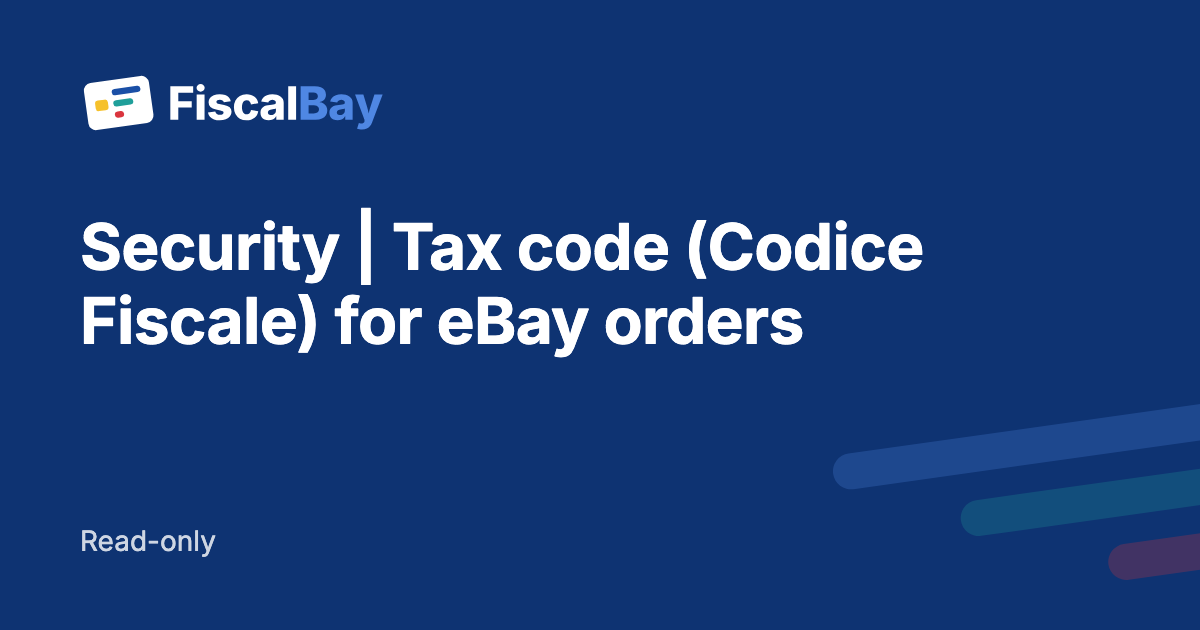
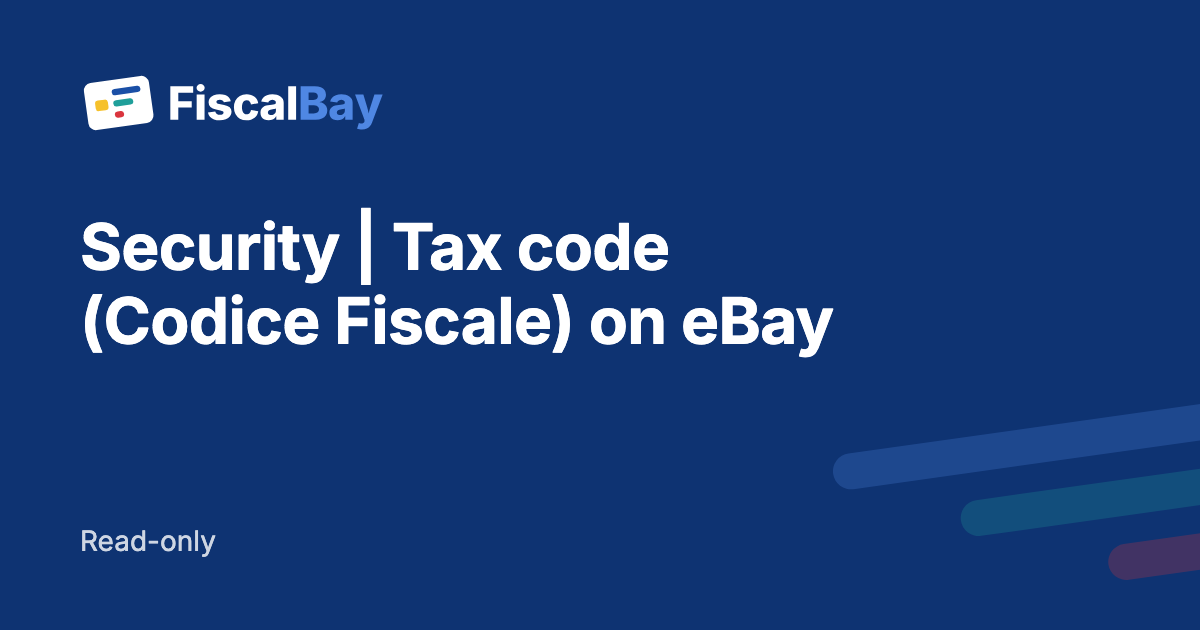
fix: title e description entro quanto Google mostra, prima schermata di Funzionalità subito
I title delle pagine pubbliche stanno entro 60 caratteri con « | FiscalBay» e le
description entro 150; le description troppo corte dicono di più. Un test in
site.spec li controlla su tutte le pagine pubbliche e le immagini di
condivisione riportano i nuovi title. La prima schermata di Funzionalità,
visibile senza scorrere, si carica subito.

Changed region(s): [[0.0617, 0.3317, 0.7708, 0.573]]

diff --git a/app/copy/guides.server.ts b/app/copy/guides.server.ts
@@ -116,7 +116,7 @@ export const guides: Record<
     articles: {
       "/guide/trovare-codice-fiscale-ordini-ebay": {
         title: "Dove trovare il Codice Fiscale dell’acquirente su eBay",
-        metaTitle: "Dove trovare il Codice Fiscale dell’acquirente eBay",
+        metaTitle: "Trovare il Codice Fiscale dell’acquirente eBay",
         nav: "Dove trovare il Codice Fiscale",
         description:
           "Il Codice Fiscale dell’acquirente non si vede nell’ordine eBay né nel report di Seller Hub. Dove si trova davvero e come averlo per ogni vendita.",
@@ -177,7 +177,7 @@ export const guides: Record<
         metaTitle: "Codice Fiscale non visibile nell’ordine eBay",
         nav: "Codice Fiscale non visibile",
         description:
-          "L’acquirente dice di aver inserito il Codice Fiscale, ma nell’ordine eBay non c’è. Il dato esiste: dove finisce e come leggerlo senza chiederlo di nuovo.",
+          "L’acquirente dice di aver inserito il Codice Fiscale, ma nell’ordine eBay non c’è. Dove finisce il dato e come leggerlo senza chiederlo di nuovo.",
         lead: "Hai attivato la richiesta del Codice Fiscale, l’acquirente giura di averlo inserito e nell’ordine non lo trovi. Ha ragione lui. Il dato c’è, solo che eBay non lo fa vedere.",
         published: "2026-11-04",
         updated: "2026-11-10",
@@ -441,7 +441,7 @@ export const guides: Record<
         metaTitle: "Alternativa a ProBay per il Codice Fiscale eBay",
         nav: "Alternativa a ProBay",
         description:
-          "ProBay non funziona più? FiscalBay è l’alternativa per leggere il Codice Fiscale degli acquirenti eBay dal browser, senza installare nulla. Inizia gratis.",
+          "ProBay non funziona più? FiscalBay legge il Codice Fiscale degli acquirenti eBay dal browser, senza installare nulla. Inizia gratis.",
         lead: "Cerchi un’alternativa a ProBay per il Codice Fiscale degli acquirenti eBay? Con FiscalBay fai di più: lo leggi dal browser, senza installare nulla, insieme a Partita IVA ed export degli ordini. E inizi gratis.",
         published: "2026-11-08",
         updated: "2026-11-08",
@@ -508,7 +508,7 @@ export const guides: Record<
         metaTitle: "FiscalBay, Console venditori eBay e Ready Pro",
         nav: "Console venditori e Ready Pro",
         description:
-          "FiscalBay, Console venditori eBay e Ready Pro a confronto: dove vedi Codice Fiscale e Partita IVA degli acquirenti, ricerca, più negozi, export e fatture.",
+          "FiscalBay, Console venditori eBay e Ready Pro a confronto: Codice Fiscale e Partita IVA degli acquirenti, ricerca, più negozi, export e fatture.",
         lead: "Per avere Codice Fiscale e Partita IVA degli acquirenti eBay hai tre strade: la Console venditori di eBay, un gestionale completo come Ready Pro o FiscalBay. Ecco cosa fa ciascuna, con le fonti.",
         published: "2026-11-10",
         updated: "2026-11-10",
@@ -615,9 +615,9 @@ export const guides: Record<
   en: {
     index: {
       title: "Guides",
-      metaTitle: "Guides | Tax code (Codice Fiscale) for eBay orders",
+      metaTitle: "Guides | Tax code (Codice Fiscale) on eBay",
       description:
-        "Practical guides for eBay sellers: where to find buyers’ tax code (Codice Fiscale) and VAT number (Partita IVA), how to ask for them and how to use them on invoices.",
+        "Practical guides for eBay sellers: where to find buyers’ tax code (Codice Fiscale) and VAT number, how to ask for them and how to invoice.",
       lead: "Answers to the questions eBay sellers ask most about their buyers’ tax codes.",
     },
     solutionTitle: "How FiscalBay helps",
@@ -629,7 +629,7 @@ export const guides: Record<
     articles: {
       "/guide/trovare-codice-fiscale-ordini-ebay": {
         title: "Where to find the buyer’s tax code (Codice Fiscale) on eBay",
-        metaTitle: "Where to find the buyer’s tax code (Codice Fiscale) on eBay",
+        metaTitle: "Find an eBay buyer’s tax code (Codice Fiscale)",
         nav: "Where to find the tax code",
         description:
           "The buyer’s tax code does not show on the eBay order or in the Seller Hub report. Where it really is and how to get it for every sale.",
@@ -690,7 +690,7 @@ export const guides: Record<
       },
       "/guide/codice-fiscale-non-visibile-ordine-ebay": {
         title: "Tax code (Codice Fiscale) not visible on the eBay order: where the data goes",
-        metaTitle: "Tax code (Codice Fiscale) not visible on the eBay order",
+        metaTitle: "Tax code (Codice Fiscale) not visible on eBay",
         nav: "Tax code not visible",
         description:
           "The buyer says they entered their tax code, but it is not on the eBay order. The data exists: where it goes and how to read it without asking again.",
@@ -739,10 +739,10 @@ export const guides: Record<
       },
       "/guide/chiedere-codice-fiscale-acquirente-ebay": {
         title: "Asking an eBay buyer for their tax code (Codice Fiscale): the message to send",
-        metaTitle: "Asking an eBay buyer for their tax code (Codice Fiscale)",
+        metaTitle: "Asking an eBay buyer for their tax code",
         nav: "Asking for the tax code",
         description:
-          "How to ask an eBay buyer for their tax code after the sale: when to write, what to say and a message to copy.",
+          "How to ask an eBay buyer for their tax code (Codice Fiscale) after the sale: when to write, what to say and a ready message to copy.",
         lead: "The order has no tax code and you need it for the invoice. You can ask the buyer, and with the right message replies come more often.",
         published: "2026-11-04",
         updated: "2026-11-05",
@@ -789,7 +789,7 @@ export const guides: Record<
       },
       "/guide/codice-fiscale-fattura-elettronica-ebay": {
         title: "Tax code (Codice Fiscale) and the Italian e-invoice for eBay sales",
-        metaTitle: "Tax code (Codice Fiscale) and the e-invoice on eBay",
+        metaTitle: "Tax code (Codice Fiscale) and eBay e-invoices",
         nav: "Italian e-invoice",
         description:
           "Which buyer details you need to invoice an eBay sale, to a private buyer or a business, and how to get them without copying them by hand.",
@@ -847,7 +847,7 @@ export const guides: Record<
         metaTitle: "eBay orders to Excel or CSV with the tax code",
         nav: "Export to Excel or CSV",
         description:
-          "How to collect the tax code (Codice Fiscale) and VAT number (Partita IVA) of your eBay orders and export them to CSV or Excel, ready for your management or invoicing software.",
+          "How to collect the tax code (Codice Fiscale) and VAT number of your eBay orders and export them to CSV or Excel for your invoicing software.",
         lead: "Connect your eBay store to FiscalBay, read-only. FiscalBay reads your orders and brings in the tax code (Codice Fiscale) and VAT number (Partita IVA) when the buyer entered them and eBay makes them available. Then export the orders to CSV on the Free plan, or to Excel (XLSX) with Pro, and import the file into your management or invoicing software.",
         published: "2026-11-03",
         updated: "2026-11-10",
@@ -908,7 +908,7 @@ export const guides: Record<
       },
       "/guide/partita-iva-acquirente-ebay": {
         title: "The buyer’s VAT number (Partita IVA) on eBay orders",
-        metaTitle: "The buyer’s VAT number (Partita IVA) on eBay orders",
+        metaTitle: "The buyer’s VAT number (Partita IVA) on eBay",
         nav: "The buyer’s VAT number",
         description:
           "When an eBay order has the buyer’s VAT number, where to find it and what you need to invoice a business or professional.",
@@ -964,7 +964,7 @@ export const guides: Record<
         metaTitle: "ProBay alternative for eBay buyers’ tax codes",
         nav: "ProBay alternative",
         description:
-          "ProBay not working? FiscalBay is the alternative for reading eBay buyers’ tax codes (Codice Fiscale) in your browser, with nothing to install. Start for free.",
+          "ProBay not working? FiscalBay reads eBay buyers’ tax codes (Codice Fiscale) in your browser, with nothing to install. Start for free.",
         lead: "Looking for a ProBay alternative for eBay buyers’ tax codes (Codice Fiscale)? FiscalBay does more: you read them in your browser, with nothing to install, together with VAT numbers and order exports. And you start for free.",
         published: "2026-11-08",
         updated: "2026-11-08",
@@ -1031,7 +1031,7 @@ export const guides: Record<
         metaTitle: "FiscalBay, eBay Seller Hub and Ready Pro",
         nav: "Seller Hub and Ready Pro",
         description:
-          "FiscalBay, eBay Seller Hub and Ready Pro compared: where you see buyers’ tax codes (Codice Fiscale) and VAT numbers, search, multiple stores, export and invoices.",
+          "FiscalBay, eBay Seller Hub and Ready Pro compared: buyers’ tax codes (Codice Fiscale) and VAT numbers, search, multiple stores, export and invoices.",
         lead: "To get eBay buyers’ tax codes (Codice Fiscale) and VAT numbers (Partita IVA) you have three options: eBay’s Seller Hub, a full management program such as Ready Pro, or FiscalBay. Here is what each one does, with sources.",
         published: "2026-11-10",
         updated: "2026-11-10",

diff --git a/app/copy/site-pages.server.ts b/app/copy/site-pages.server.ts
@@ -293,9 +293,9 @@ const it = {
   faq: {
     title: "Domande frequenti",
     /** Titolo della scheda e dei risultati di ricerca, con il nome della pagina e poi la parola chiave. */
-    metaTitle: "Domande frequenti | Codice Fiscale degli ordini eBay",
+    metaTitle: "Domande frequenti | Codice Fiscale su eBay",
     description:
-      "Risposte su FiscalBay: Codice Fiscale e Partita IVA dagli ordini eBay, piani, prova Pro, pagamenti, permessi e dati.",
+      "Risposte su FiscalBay: come ottenere Codice Fiscale e Partita IVA dagli ordini eBay, piani, prova Pro, pagamenti, permessi e dati.",
     items: [
       {
         q: "Cos’è FiscalBay?",
@@ -384,7 +384,7 @@ type SitePagesCopy = typeof it;
 
 const en: SitePagesCopy = {
   home: {
-    title: "Get the tax code (Codice Fiscale) from your eBay orders",
+    title: "Get eBay buyers’ tax code (Codice Fiscale)",
     description:
       "Get and manage the tax code (Codice Fiscale) of your eBay orders, when eBay provides it, with automatic sync, export and notifications.",
     hero: "FiscalBay: find and manage the tax code (Codice Fiscale) of your eBay orders.",
@@ -457,9 +457,9 @@ const en: SitePagesCopy = {
   },
   features: {
     title: "Features",
-    metaTitle: "Features | Tax code (Codice Fiscale) for eBay orders",
+    metaTitle: "Features | Tax code (Codice Fiscale) on eBay",
     description:
-      "Tax code (Codice Fiscale) and VAT number (Partita IVA) from your eBay orders, automatic sync, search, CSV and XLSX export, Telegram notifications and multiple stores.",
+      "Tax code (Codice Fiscale) and VAT number from your eBay orders, automatic sync, search, CSV and XLSX export, Telegram alerts and multiple stores.",
     lead: "The tax code (Codice Fiscale) of your eBay orders at hand, from connecting your store to exporting.",
     premium: "Pro",
     showcase: [
@@ -517,7 +517,7 @@ const en: SitePagesCopy = {
 
   pricing: {
     title: "Pricing",
-    metaTitle: "Pricing | Tax code (Codice Fiscale) for eBay orders",
+    metaTitle: "Pricing | Tax code (Codice Fiscale) on eBay",
     description:
       "Free plan at no cost and Pro monthly, annual or lifetime to get the tax code (Codice Fiscale) from your eBay orders. 14-day Pro trial with no card.",
     lead: "Start for free. Move to Pro when you need more orders, more stores and more history.",
@@ -597,7 +597,7 @@ const en: SitePagesCopy = {
   },
   security: {
     title: "Security",
-    metaTitle: "Security | Tax code (Codice Fiscale) for eBay orders",
+    metaTitle: "Security | Tax code (Codice Fiscale) on eBay",
     description:
       "How FiscalBay protects access to your eBay store and your order data: read-only access, encrypted tokens and data in the European Union.",
     lead: "FiscalBay reads your orders and never changes them. Here is how we protect access and data.",
@@ -651,9 +651,9 @@ const en: SitePagesCopy = {
   },
   faq: {
     title: "Frequently asked questions",
-    metaTitle: "Frequently asked questions | Tax code (Codice Fiscale) for eBay orders",
+    metaTitle: "FAQ | Tax code (Codice Fiscale) on eBay",
     description:
-      "Answers about FiscalBay: tax code (Codice Fiscale) and VAT number (Partita IVA) from eBay orders, plans, the Pro trial, payments, permissions and data.",
+      "Answers about FiscalBay: tax code (Codice Fiscale) and VAT number from eBay orders, plans, the Pro trial, payments, permissions and data.",
     items: [
       {
         q: "What is FiscalBay?",

diff --git a/test/site.spec.ts b/test/site.spec.ts
@@ -14,7 +14,8 @@ import { loader as loadLegal } from "../app/routes/legal";
 import { loader as loadRobots, robots } from "../app/routes/robots";
 import { llms, publicPage, sitemap } from "../app/site.server";
 import { indexable, isProductionOrigin } from "../app/app-links";
-import { appCopy, infoEmail } from "../app/app-copy";
+import { appCopy, infoEmail, pageTitle } from "../app/app-copy";
+import { guides } from "../app/copy/guides.server";
 import { adminCopy } from "../app/copy/admin-copy";
 import { legalDocuments, type LegalSection } from "../app/copy/legal-documents.server";
 import { sitePages } from "../app/copy/site-pages.server";
@@ -452,6 +453,28 @@ describe("radice pubblica e area riservata", () => {
     expect(ogImage("en", "/guide/trovare-codice-fiscale-ordini-ebay")).toBe(
       "/og/guide-trovare-codice-fiscale-ordini-ebay-en.png",
     );
+  });
+
+  it("tiene title e description delle pagine pubbliche entro quanto Google mostra", () => {
+    for (const language of ["it", "en"] as const) {
+      const pages = sitePages[language];
+      const t = guides[language];
+      const meta: [string, string][] = [
+        [pages.home.title, pages.home.description],
+        ...[pages.features, pages.pricing, pages.security, pages.faq].map(
+          (page) => [page.metaTitle, page.description] as [string, string],
+        ),
+        [appCopy[language].supportPage.metaTitle, appCopy[language].supportPage.description],
+        [t.index.metaTitle, t.index.description],
+        ...Object.values(t.articles).map(
+          (article) => [article.metaTitle, article.description] as [string, string],
+        ),
+      ];
+      for (const [title, description] of meta) {
+        expect(pageTitle(title).length, pageTitle(title)).toBeLessThanOrEqual(60);
+        expect(description.length, description).toBeLessThanOrEqual(150);
+      }
+    }
   });
 });
 

diff --git a/app/components/product-shot.tsx b/app/components/product-shot.tsx
@@ -50,6 +50,7 @@ export function ProductShot({
   language,
   alt,
   priority = false,
+  eager = priority,
   className,
 }: {
   name: ShotName;
@@ -57,6 +58,8 @@ export function ProductShot({
   alt: string;
   /** Immagine nel primo schermo: caricata subito e con priorità alta. */
   priority?: boolean;
+  /** Caricata subito e con priorità alta, senza le varianti AVIF e per larghezza di `priority`. */
+  eager?: boolean;
   className?: string;
 }) {
   const size = shots[name][language];
@@ -109,9 +112,9 @@ export function ProductShot({
         alt={alt}
         width={size.width}
         height={size.height}
-        loading={priority ? "eager" : "lazy"}
-        fetchPriority={priority ? "high" : undefined}
-        decoding={priority ? undefined : "async"}
+        loading={eager ? "eager" : "lazy"}
+        fetchPriority={eager ? "high" : undefined}
+        decoding={eager ? undefined : "async"}
         className={cn(
           "h-auto w-full rounded-xl border bg-card shadow-lg shadow-brand-navy/10",
           className,
@@ -136,6 +139,7 @@ export function ShotRow({
   reverse = false,
   heading: Heading = "h3",
   link,
+  eager = false,
 }: {
   id: string;
   title: string;
@@ -148,6 +152,8 @@ export function ShotRow({
   alt: string;
   reverse?: boolean;
   heading?: "h2" | "h3";
+  /** Schermata nel primo schermo della pagina, caricata subito. */
+  eager?: boolean;
 }) {
   return (
     <section
@@ -181,6 +187,7 @@ export function ShotRow({
         name={shot}
         language={language}
         alt={alt}
+        eager={eager}
         className={cn(shot === "telegram" && "mx-auto max-w-md")}
       />
     </section>

diff --git a/app/copy/copy-en.ts b/app/copy/copy-en.ts
@@ -1073,9 +1073,9 @@ export const en: AppCopy = {
   },
   supportPage: {
     title: "Support",
-    metaTitle: "Support | Tax code (Codice Fiscale) for eBay orders",
+    metaTitle: "Support | Tax code (Codice Fiscale) on eBay",
     description:
-      "FiscalBay support: questions about using the app, the in-app support form and email.",
+      "FiscalBay support for getting the tax code (Codice Fiscale) from eBay orders: questions about using the app, the in-app form and email.",
     contact: contactSupport,
     member:
       "In the app, write from the support form: you can attach your account’s diagnostic summary.",

diff --git a/app/copy/copy-it.ts b/app/copy/copy-it.ts
@@ -1104,7 +1104,7 @@ export const it = {
     title: "Supporto",
     metaTitle: "Supporto | Codice Fiscale degli ordini eBay",
     description:
-      "Assistenza FiscalBay: domande sull’uso, modulo di assistenza nell’app e indirizzo email.",
+      "Assistenza FiscalBay per chi recupera il Codice Fiscale dagli ordini eBay: domande sull’uso, modulo di assistenza nell’app e indirizzo email.",
     contact: contactSupport,
     member:
       "Dall’app scrivi dal modulo di assistenza: puoi allegare il riepilogo diagnostico del tuo account.",

diff --git a/app/routes/features.tsx b/app/routes/features.tsx
@@ -64,6 +64,7 @@ export default function Features({ loaderData }: Route.ComponentProps) {
             alt={t.shots[item.shot as ShotName]}
             reverse={index % 2 === 1}
             heading="h2"
+            eager={index === 0}
             link={
               "guide" in item && item.guide
                 ? { label: item.guide.label, href: localizedPath(language, item.guide.path) }

diff --git a/docs/product/EXPERIENCE.md b/docs/product/EXPERIENCE.md
@@ -113,7 +113,7 @@ Barra superiore e footer delle pagine pubbliche (D202). La barra porta logo, Fun
 
 Prezzi: Free e tre modalità Pro nello stesso confronto; annuale evidenziato senza scelta nascosta; lifetime allo stesso livello con il residuo reale; esaurito resta visibile come tale, senza urgenza artificiale (D218). Ogni prezzo netto ha accanto il totale con l'IVA italiana al 22%; Stripe calcola prima del pagamento imposte e totale del paese dell'acquirente. Senza il database Home e Prezzi mostrano il listino di riserva: i prezzi del catalogo, senza quota, prova, promozione o posti, invece del 503. Trial 14 giorni senza carta evidente e volontario dopo prima sync. Promo mostra 10/7 giorni fino alla data, poi 5; la quota reale individuale può restare 10 fino a fine ciclo. Home e Piano dell'app usano lo stesso listino di Prezzi, con il totale IVA accanto al netto, la prova oppure gli acquisti sospesi e i posti lifetime rimasti. La promozione indica il giorno di fine senza orario.
 
-SEO tecnico: sitemap solo pagine pubbliche canoniche, con `lastmod` dall'ultima modifica sostanziale del contenuto e senza Termini e Privacy che rispondono `noindex` (D204), robots, noindex su app/test/anteprime, canonical, hreflang, Open Graph con un'immagine per pagina e lingua, metadata IT/EN, structured data soltanto veri e appropriati (organizzazione, FAQ, offerte di Prezzi con il prezzo netto, articoli delle Guide), manifest con icone e colore del tema, `/.well-known/security.txt` verso `info@`, performance: l'immagine principale della home arriva per prima, in AVIF e alla larghezza adatta (640, 960 px o l'originale), le immagini del sito restano in cache per trenta giorni. `robots.txt` non è controllo d'accesso. Nessun dato account indicizzabile o cache cross-user. Solo strumenti strettamente necessari; evitare banner cookie quando le tecnologie effettive lo consentono, non dichiarare l'esenzione senza inventario. Le visite delle sole pagine pubbliche si contano con Cloudflare Web Analytics senza cookie e Search Console riceve la sitemap con la verifica DNS, Bing la importa da Search Console e IndexNow riceve le pagine dopo una promozione che le cambia; Google Analytics è escluso perché richiederebbe consenso e banner ([D242](../decisions/DECISION_REGISTER.md), [procedura](../operations/OBSERVABILITY.md#statistiche-sito)). La provenienza degli iscritti ([D304](../decisions/DECISION_REGISTER.md)) viaggia nel parametro `via` dei link interni delle pagine pubbliche e dell'accesso: il Worker lo calcola dal Referer o da un'etichetta dell'elenco chiuso, il browser lo aggiunge ai link e lo toglie dalla barra dell'indirizzo senza scrivere cookie o archivi. Canonical, hreflang, sitemap e dati strutturati non lo contengono mai, quindi l'indirizzo con il parametro non è una pagina indicizzabile distinta, e i crawler dei motori di ricerca e degli assistenti non ricevono provenienza, così i link che seguono restano canonici; senza JavaScript la provenienza non si propaga e la registrazione la salva come sconosciuta. Social proof soltanto quando reale/autorizzata.
+SEO tecnico: sitemap solo pagine pubbliche canoniche, con `lastmod` dall'ultima modifica sostanziale del contenuto e senza Termini e Privacy che rispondono `noindex` (D204), robots, noindex su app/test/anteprime, canonical, hreflang, Open Graph con un'immagine per pagina e lingua, metadata IT/EN con title entro 60 caratteri compreso « | FiscalBay» e description entro 150, structured data soltanto veri e appropriati (organizzazione, FAQ, offerte di Prezzi con il prezzo netto, articoli delle Guide), manifest con icone e colore del tema, `/.well-known/security.txt` verso `info@`, performance: l'immagine principale della home arriva per prima, in AVIF e alla larghezza adatta (640, 960 px o l'originale), le immagini del sito restano in cache per trenta giorni. `robots.txt` non è controllo d'accesso. Nessun dato account indicizzabile o cache cross-user. Solo strumenti strettamente necessari; evitare banner cookie quando le tecnologie effettive lo consentono, non dichiarare l'esenzione senza inventario. Le visite delle sole pagine pubbliche si contano con Cloudflare Web Analytics senza cookie e Search Console riceve la sitemap con la verifica DNS, Bing la importa da Search Console e IndexNow riceve le pagine dopo una promozione che le cambia; Google Analytics è escluso perché richiederebbe consenso e banner ([D242](../decisions/DECISION_REGISTER.md), [procedura](../operations/OBSERVABILITY.md#statistiche-sito)). La provenienza degli iscritti ([D304](../decisions/DECISION_REGISTER.md)) viaggia nel parametro `via` dei link interni delle pagine pubbliche e dell'accesso: il Worker lo calcola dal Referer o da un'etichetta dell'elenco chiuso, il browser lo aggiunge ai link e lo toglie dalla barra dell'indirizzo senza scrivere cookie o archivi. Canonical, hreflang, sitemap e dati strutturati non lo contengono mai, quindi l'indirizzo con il parametro non è una pagina indicizzabile distinta, e i crawler dei motori di ricerca e degli assistenti non ricevono provenienza, così i link che seguono restano canonici; senza JavaScript la provenienza non si propaga e la registrazione la salva come sconosciuta. Social proof soltanto quando reale/autorizzata.
 
 **Cache e navigazione autenticata.** La home può reindirizzare l’utente autenticato agli Ordini, ma quel redirect è specifico della sessione e non può essere memorizzato nella cache pubblica per tutti. Anche la scelta «Visita il sito» resta personale. Ogni pagina pubblica legge la sessione e risponde `no-store`; soltanto la home porta agli Ordini, salvo la scelta di visitare il sito. Home e Prezzi chiesti senza alcun cookie né parametro arrivano da una copia di un minuto nella cache di Cloudflare, per indirizzo, versione del Worker e categoria di provenienza, che la pagina porta nei link interni: la risposta è la stessa per ogni visitatore anonimo con quella provenienza e il browser riceve comunque `no-store`. Le pagine mostrano il prodotto con schermate reali dell'anteprima, nella lingua e nel tema della pagina. Sicurezza indica `info@` per le vulnerabilità; la FAQ raccoglie le domande prima di iniziare, Supporto quelle d'uso. Definire regole esplicite di bypass/no-store per `/app`, `/admin`, API sensibili, callback, risposte con sessione e download; il solo header `Vary` o il solo noindex non dimostra isolamento della cache del provider.
 

diff --git a/changes/title-description-brevi.md b/changes/title-description-brevi.md
@@ -1,0 +1,8 @@
+# Title e description entro quanto Google mostra
+
+## Changelog
+
+### Altre modifiche
+
+- **Titoli e descrizioni della misura giusta.** I titoli delle pagine pubbliche stanno entro 60 caratteri con « | FiscalBay» e le descrizioni entro 150, così Google li mostra interi; le descrizioni troppo corte di Supporto, Domande frequenti e di una Guida inglese dicono di più. Le pagine più toccate sono quelle inglesi. Le immagini di condivisione riportano i nuovi titoli e un test rifiuta quelli troppo lunghi.
+- **Funzionalità più rapida all'apertura.** La prima schermata della pagina, visibile senza scorrere, si carica subito invece che in differita.
